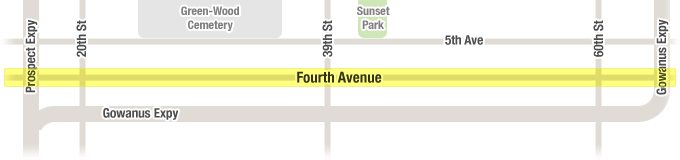
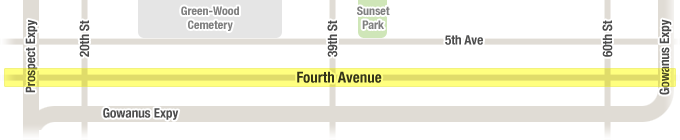
fix map image to line up w/ slider

diff --git a/src/css/style.css b/src/css/style.css
@@ -125,7 +125,7 @@ body {
 .dot-slider {
   background: transparent url("mapslider.png") no-repeat left center !important;
   border:none;
-  height:160px;
+  height:140px;
   width:680px;
      -moz-border-radius: 0;
   -webkit-border-radius: 0;
